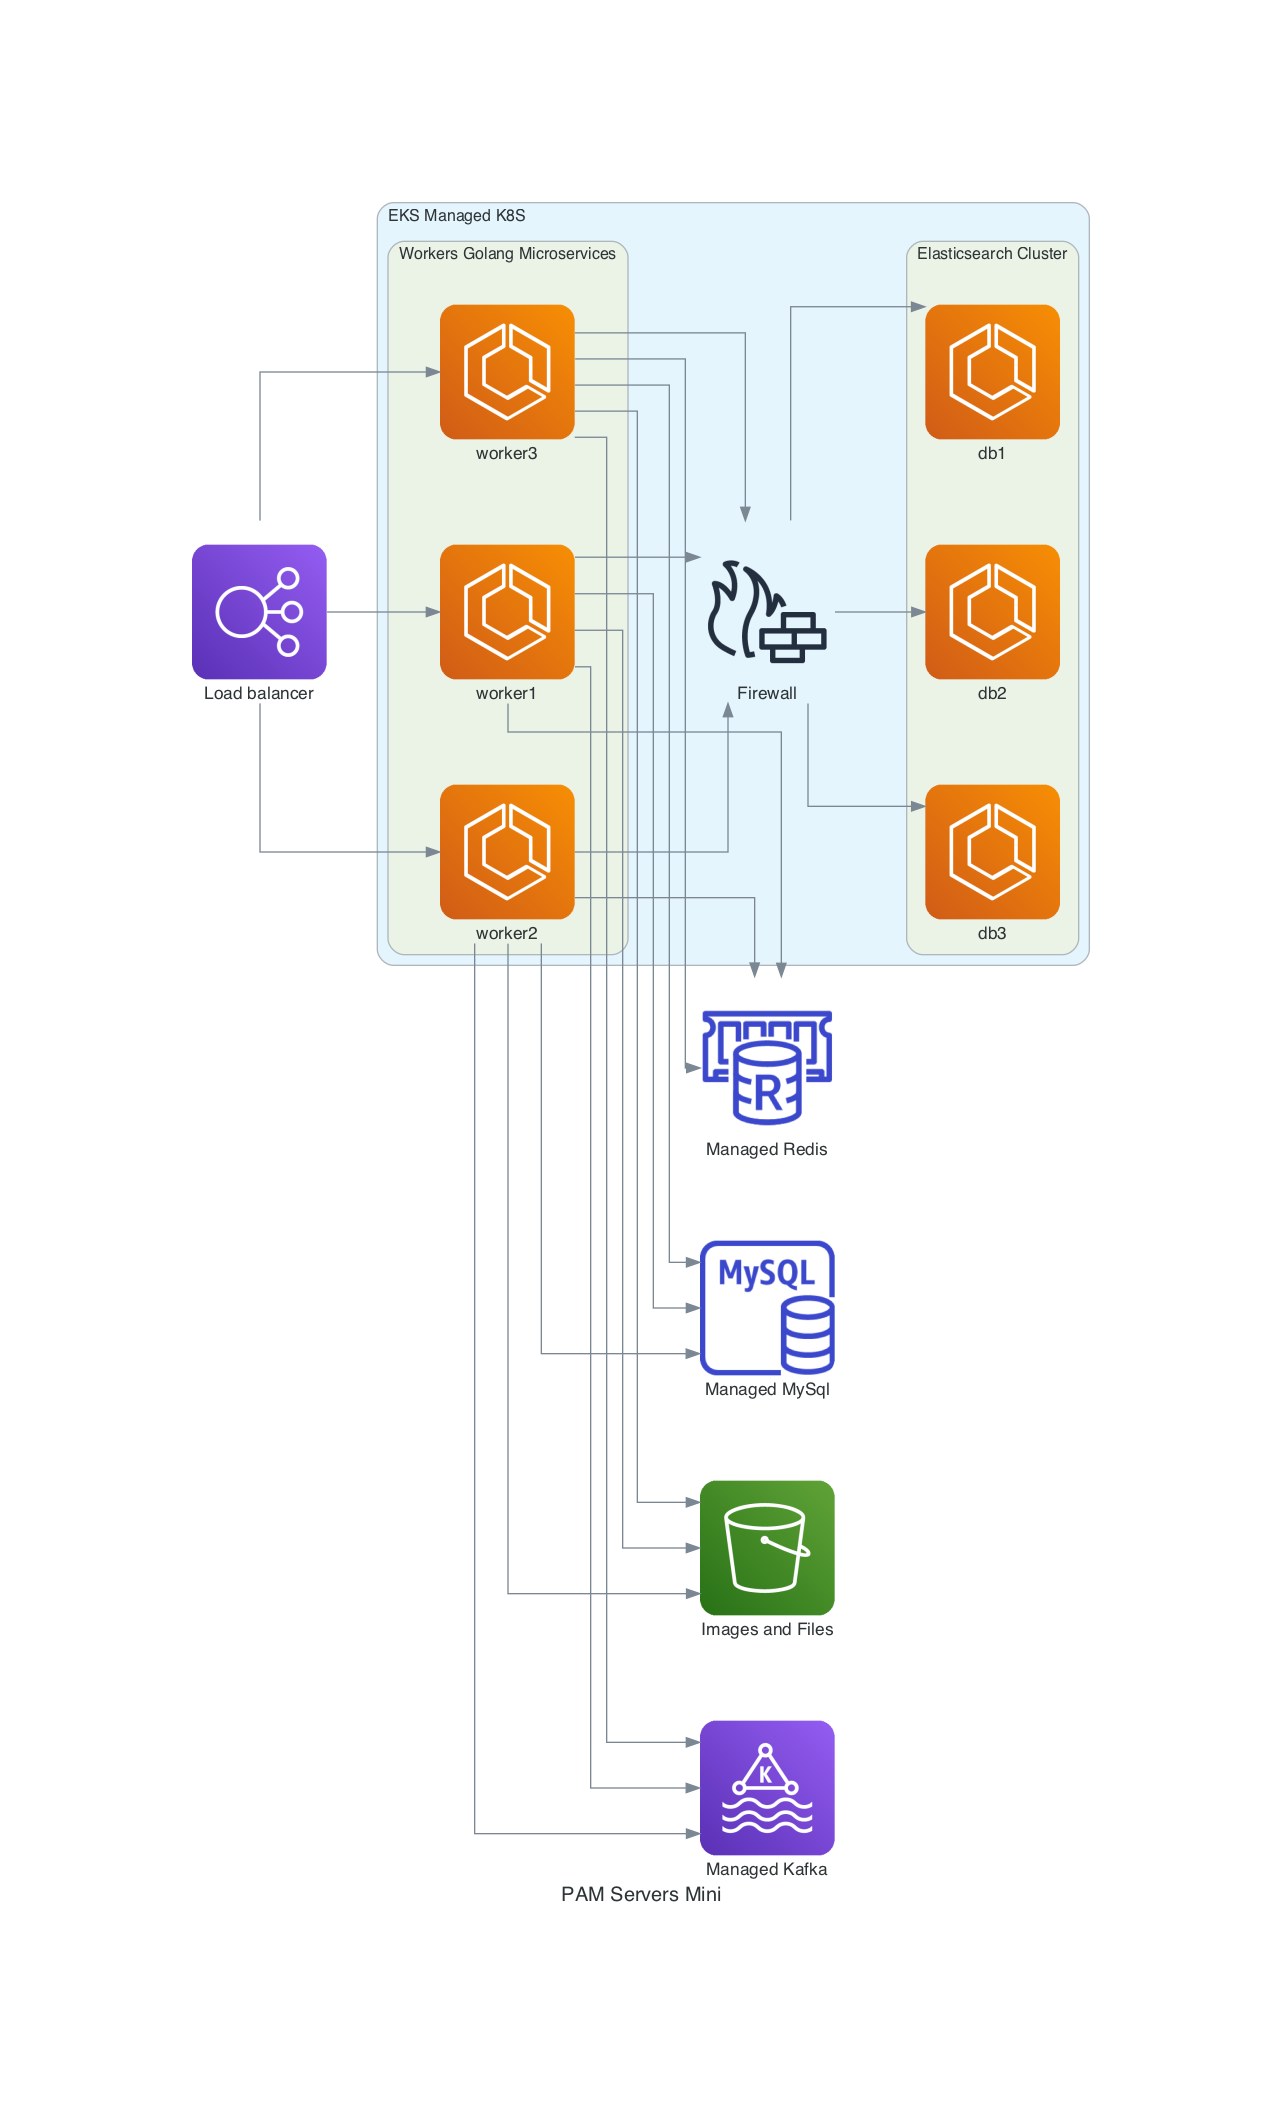
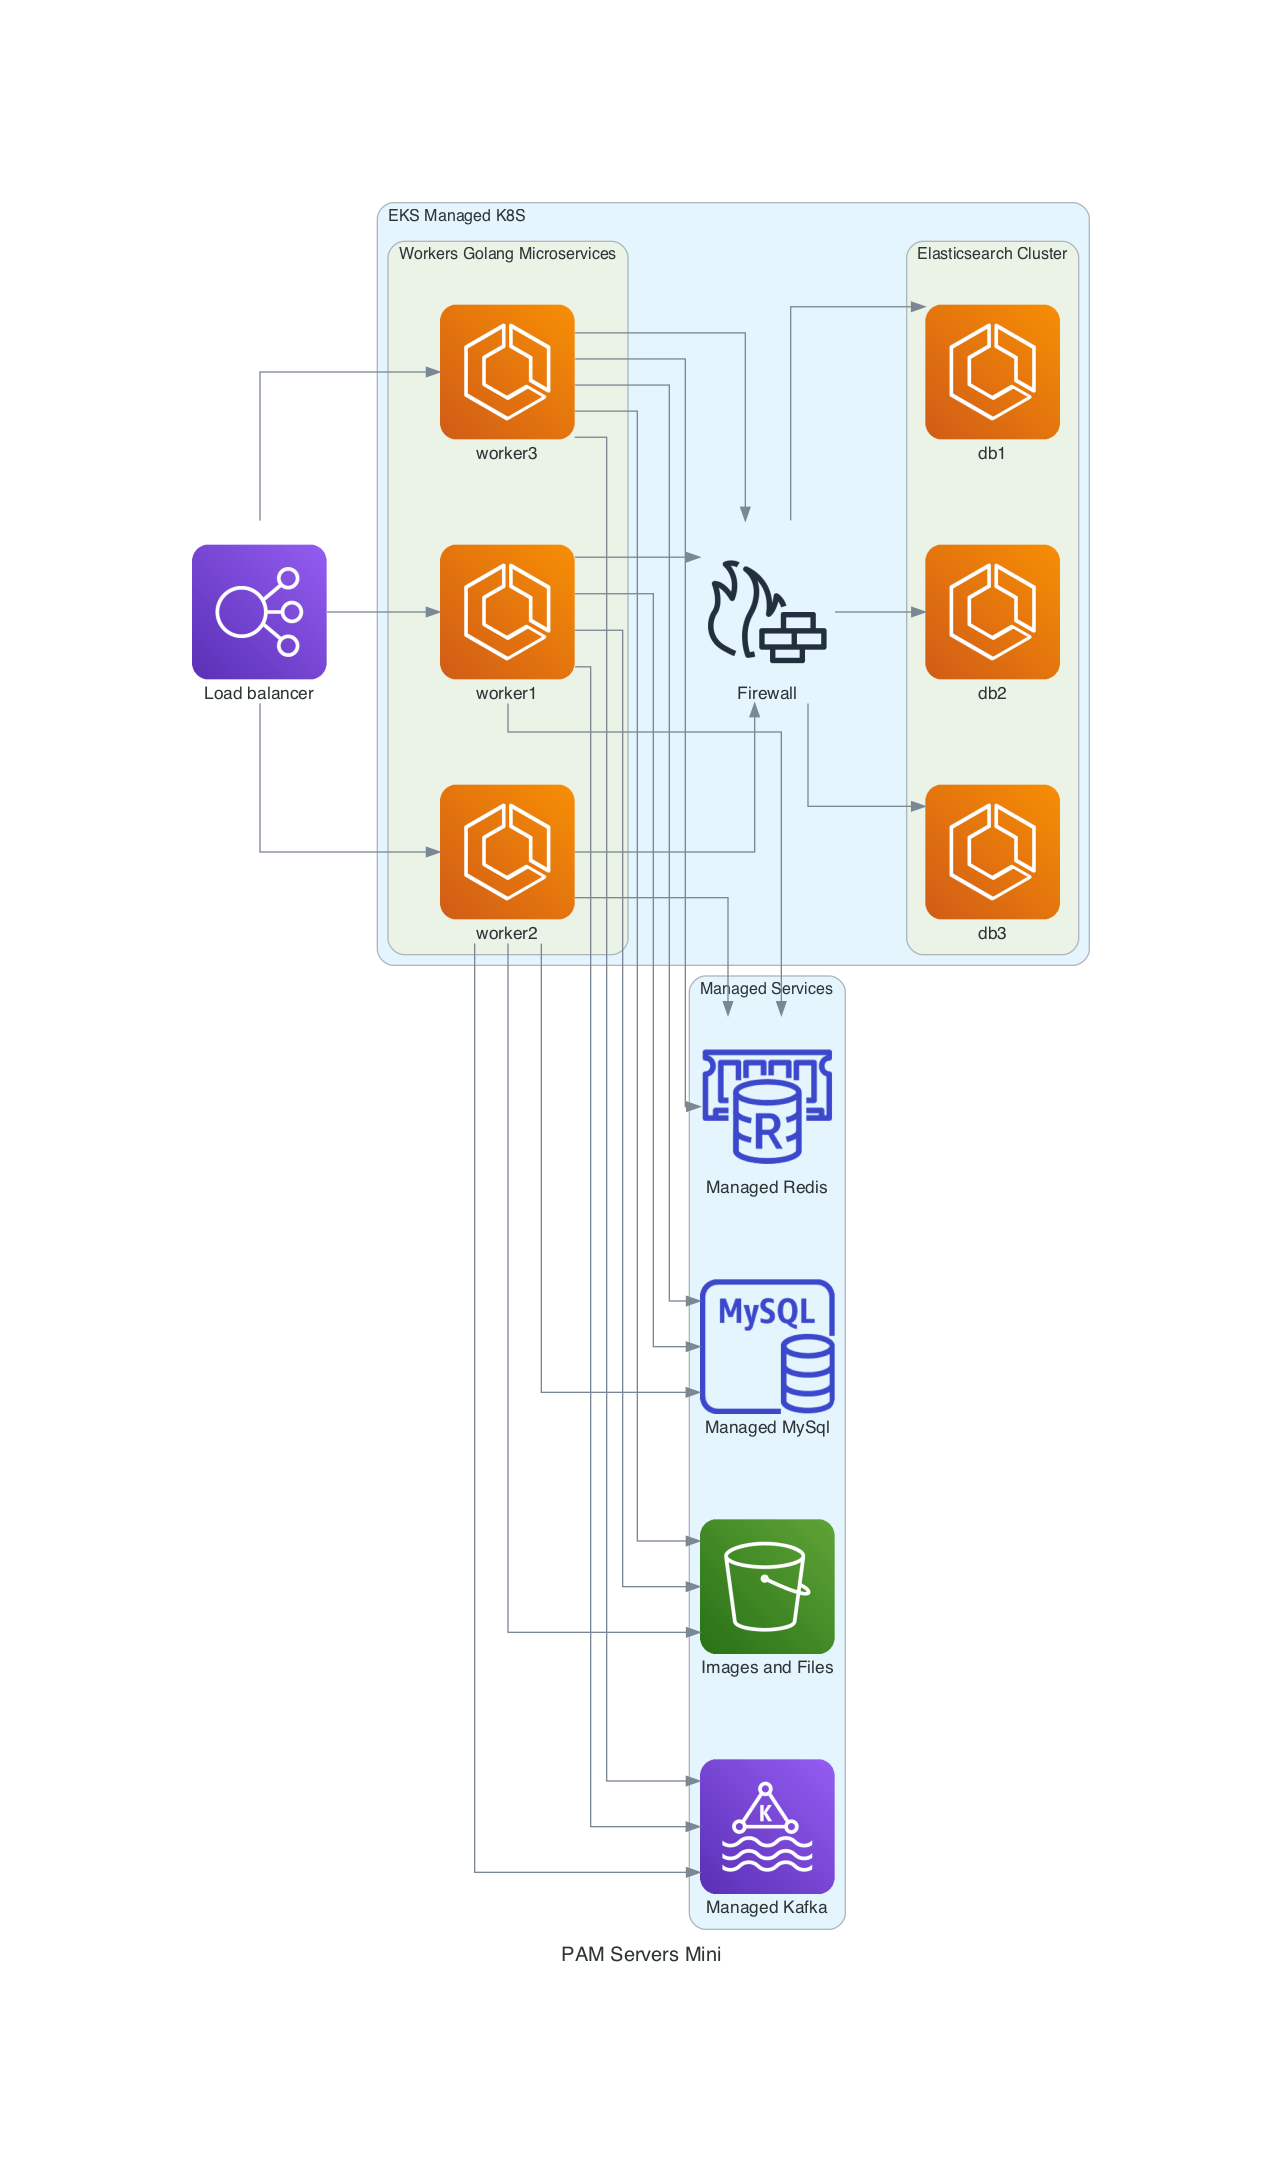
Add managed service cluster

diff --git a/pam-servers.py b/pam-servers.py
@@ -24,10 +24,11 @@ with Diagram("PAM Servers Mini", show=False):
                    ECS("db2"),
                    ECS("db3")]
 
-    s3 = S3("Images and Files")
-    kfk = ManagedStreamingForKafka("Managed Kafka")
-    redis = ElasticacheForRedis("Managed Redis")
-    mysql = RDSMysqlInstance("Managed MySql")
+    with Cluster("Managed Services"):
+        s3 = S3("Images and Files")
+        kfk = ManagedStreamingForKafka("Managed Kafka")
+        redis = ElasticacheForRedis("Managed Redis")
+        mysql = RDSMysqlInstance("Managed MySql")
 
     lb >> workers
     workers >> fw >> dbs
@@ -52,10 +53,11 @@ with Diagram("PAM Servers Basic", show=False):
                    ECS("db2"),
                    ECS("db3")]
 
-    s3 = S3("Images and Files")
-    kfk = ManagedStreamingForKafka("Managed Kafka")
-    redis = ElasticacheForRedis("Managed Redis")
-    mysql = RDSMysqlInstance("Managed MySql")
+    with Cluster("Managed Services"):
+        s3 = S3("Images and Files")
+        kfk = ManagedStreamingForKafka("Managed Kafka")
+        redis = ElasticacheForRedis("Managed Redis")
+        mysql = RDSMysqlInstance("Managed MySql")
 
     lb >> workers
     workers >> fw >> dbs
@@ -82,10 +84,11 @@ with Diagram("PAM Servers Pro", show=False):
                    ECS("db4"),
                    ECS("db5")]
 
-    s3 = S3("Images and Files")
-    kfk = ManagedStreamingForKafka("Managed Kafka")
-    redis = ElasticacheForRedis("Managed Redis")
-    mysql = RDSMysqlInstance("Managed MySql")
+    with Cluster("Managed Services"):
+        s3 = S3("Images and Files")
+        kfk = ManagedStreamingForKafka("Managed Kafka")
+        redis = ElasticacheForRedis("Managed Redis")
+        mysql = RDSMysqlInstance("Managed MySql")
 
     lb >> workers
     workers >> fw >> dbs
@@ -116,10 +119,11 @@ with Diagram("PAM Servers Pro XL", show=False):
                    ECS("db6"),
                    ECS("db7")]
 
-    s3 = S3("Images and Files")
-    kfk = ManagedStreamingForKafka("Managed Kafka")
-    redis = ElasticacheForRedis("Managed Redis")
-    mysql = RDSMysqlInstance("Managed MySql")
+    with Cluster("Managed Services"):
+        s3 = S3("Images and Files")
+        kfk = ManagedStreamingForKafka("Managed Kafka")
+        redis = ElasticacheForRedis("Managed Redis")
+        mysql = RDSMysqlInstance("Managed MySql")
 
     lb >> workers
     workers >> fw >> dbs
@@ -156,10 +160,11 @@ with Diagram("PAM Servers Pro 2XL", show=False):
                    ECS("db9"),
                    ECS("db10")]
 
-    s3 = S3("Images and Files")
-    kfk = ManagedStreamingForKafka("Managed Kafka")
-    redis = ElasticacheForRedis("Managed Redis")
-    mysql = RDSMysqlInstance("Managed MySql")
+    with Cluster("Managed Services"):
+        s3 = S3("Images and Files")
+        kfk = ManagedStreamingForKafka("Managed Kafka")
+        redis = ElasticacheForRedis("Managed Redis")
+        mysql = RDSMysqlInstance("Managed MySql")
 
     lb >> workers
     workers >> fw >> dbs
